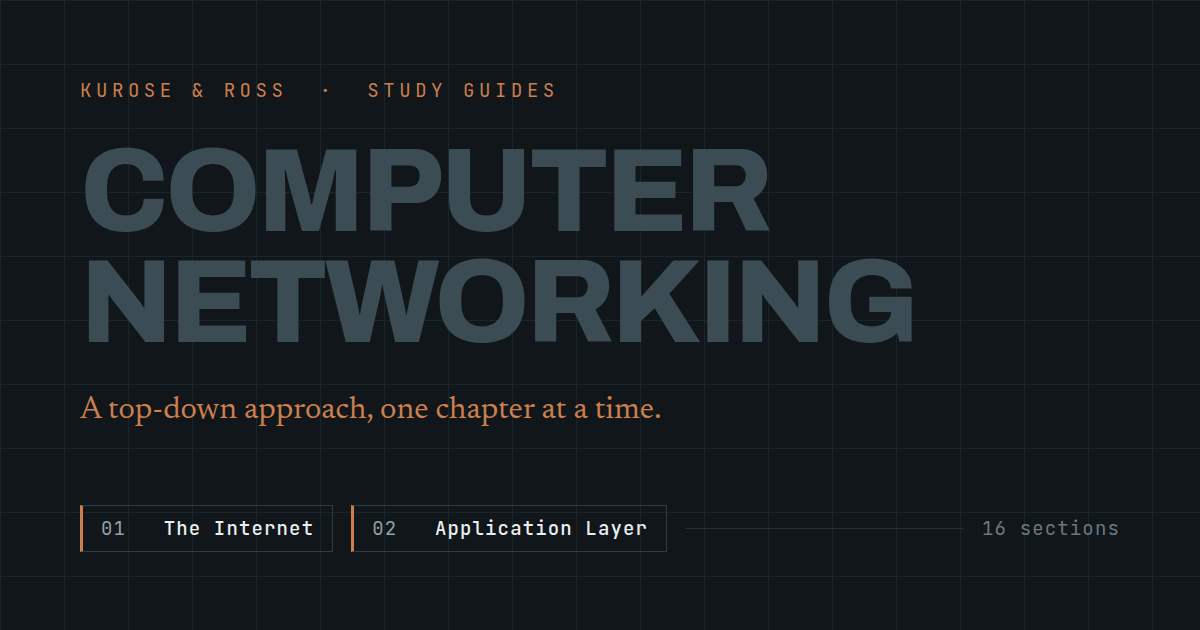
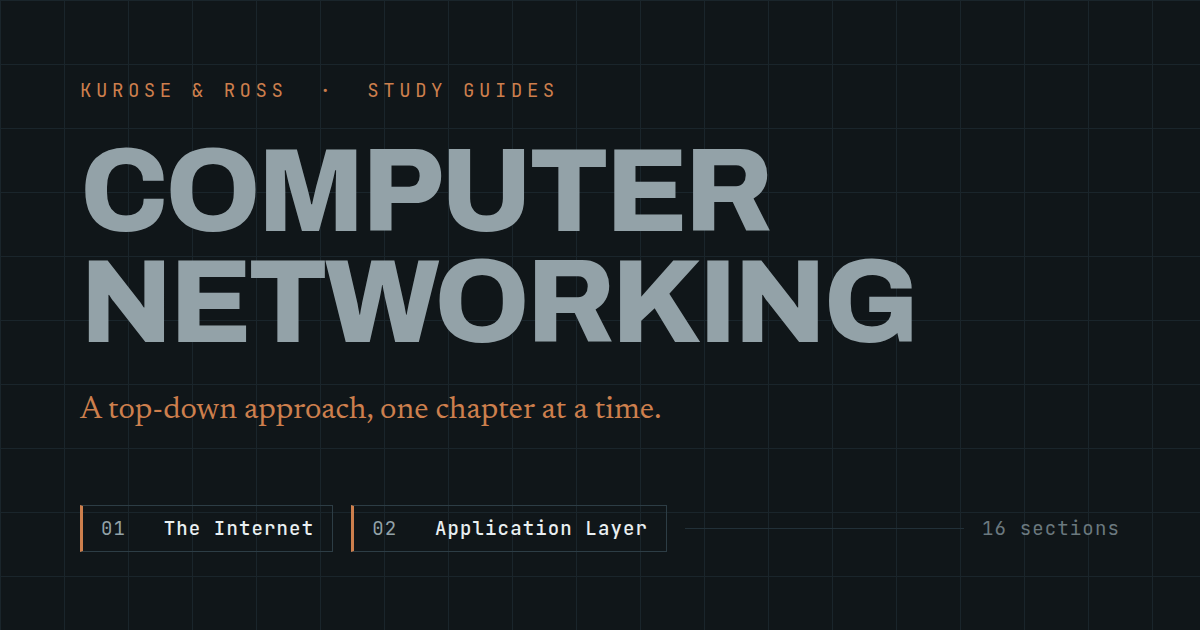
Make the masthead heroes legible
The ghost titles sat at 1.20:1 against the background in both themes,
which reads as decoration rather than as the page's title. Raise
--ghost-title to 6.93:1 on dark and 5.85:1 on light — clearly readable,
still recessive enough that the copper tagline leads. The variable is used
only by the masthead title on each page, so nothing else shifts, and
Chapter 2 keeps its two-tone heading with "Layer" brighter than
"Application".

The contents-page og-image had the same treatment; regenerated it from
og-source.html to match.

Claude-Session: https://claude.ai/code/session_01FsXjZGEXuTqbfkiPdCELep

Changed region(s): [[0.0617, 0.2111, 0.7708, 0.5429]]

diff --git a/ch1/index.html b/ch1/index.html
@@ -78,7 +78,7 @@
   --text-dimmer:#4e5a5f;
   --text-nav:#93a2a8;
   --text-footer:#5c696e;
-  --ghost-title:#1c272d;
+  --ghost-title:#93a2a8;
   --ghost-numeral:#16201f;
   --grid-line:#1a252b;
 }
@@ -105,7 +105,7 @@
   --text-dimmer:#98a0a3;
   --text-nav:#4d585c;
   --text-footer:#7b8589;
-  --ghost-title:#d4d3c9;
+  --ghost-title:#4d585c;
   --ghost-numeral:#dbdad0;
   --grid-line:#d5d4ca;
 }

diff --git a/ch2/index.html b/ch2/index.html
@@ -49,7 +49,7 @@
   --text-dimmer:#4e5a5f;
   --text-nav:#93a2a8;
   --text-footer:#5c696e;
-  --ghost-title:#1c272d;
+  --ghost-title:#93a2a8;
   --ghost-numeral:#16201f;
   --grid-line:#1a252b;
 }
@@ -76,7 +76,7 @@
   --text-dimmer:#98a0a3;
   --text-nav:#4d585c;
   --text-footer:#7b8589;
-  --ghost-title:#dcdcd2;
+  --ghost-title:#4d585c;
   --ghost-numeral:#d6d6cb;
   --grid-line:#d8d8cf;
 }

diff --git a/index.html b/index.html
@@ -72,7 +72,7 @@
   --text-dim:#6b797f;
   --text-nav:#93a2a8;
   --text-footer:#5c696e;
-  --ghost-title:#1c272d;
+  --ghost-title:#93a2a8;
   --ghost-numeral:#16201f;
   --grid-line:#1a252b;
 }
@@ -93,7 +93,7 @@
   --text-dim:#788286;
   --text-nav:#4d585c;
   --text-footer:#7b8589;
-  --ghost-title:#d4d3c9;
+  --ghost-title:#4d585c;
   --ghost-numeral:#dbdad0;
   --grid-line:#d5d4ca;
 }

diff --git a/og-source.html b/og-source.html
@@ -33,7 +33,7 @@ body{
 h1{
   font-family:"Archivo",sans-serif;font-weight:800;
   font-size:118px;line-height:.94;letter-spacing:-.03em;
-  text-transform:uppercase;color:#3c4c55;margin-top:34px;
+  text-transform:uppercase;color:#93a2a8;margin-top:34px;
 }
 .tag{
   font-family:"Newsreader",Georgia,serif;font-size:31px;line-height:1.4;
